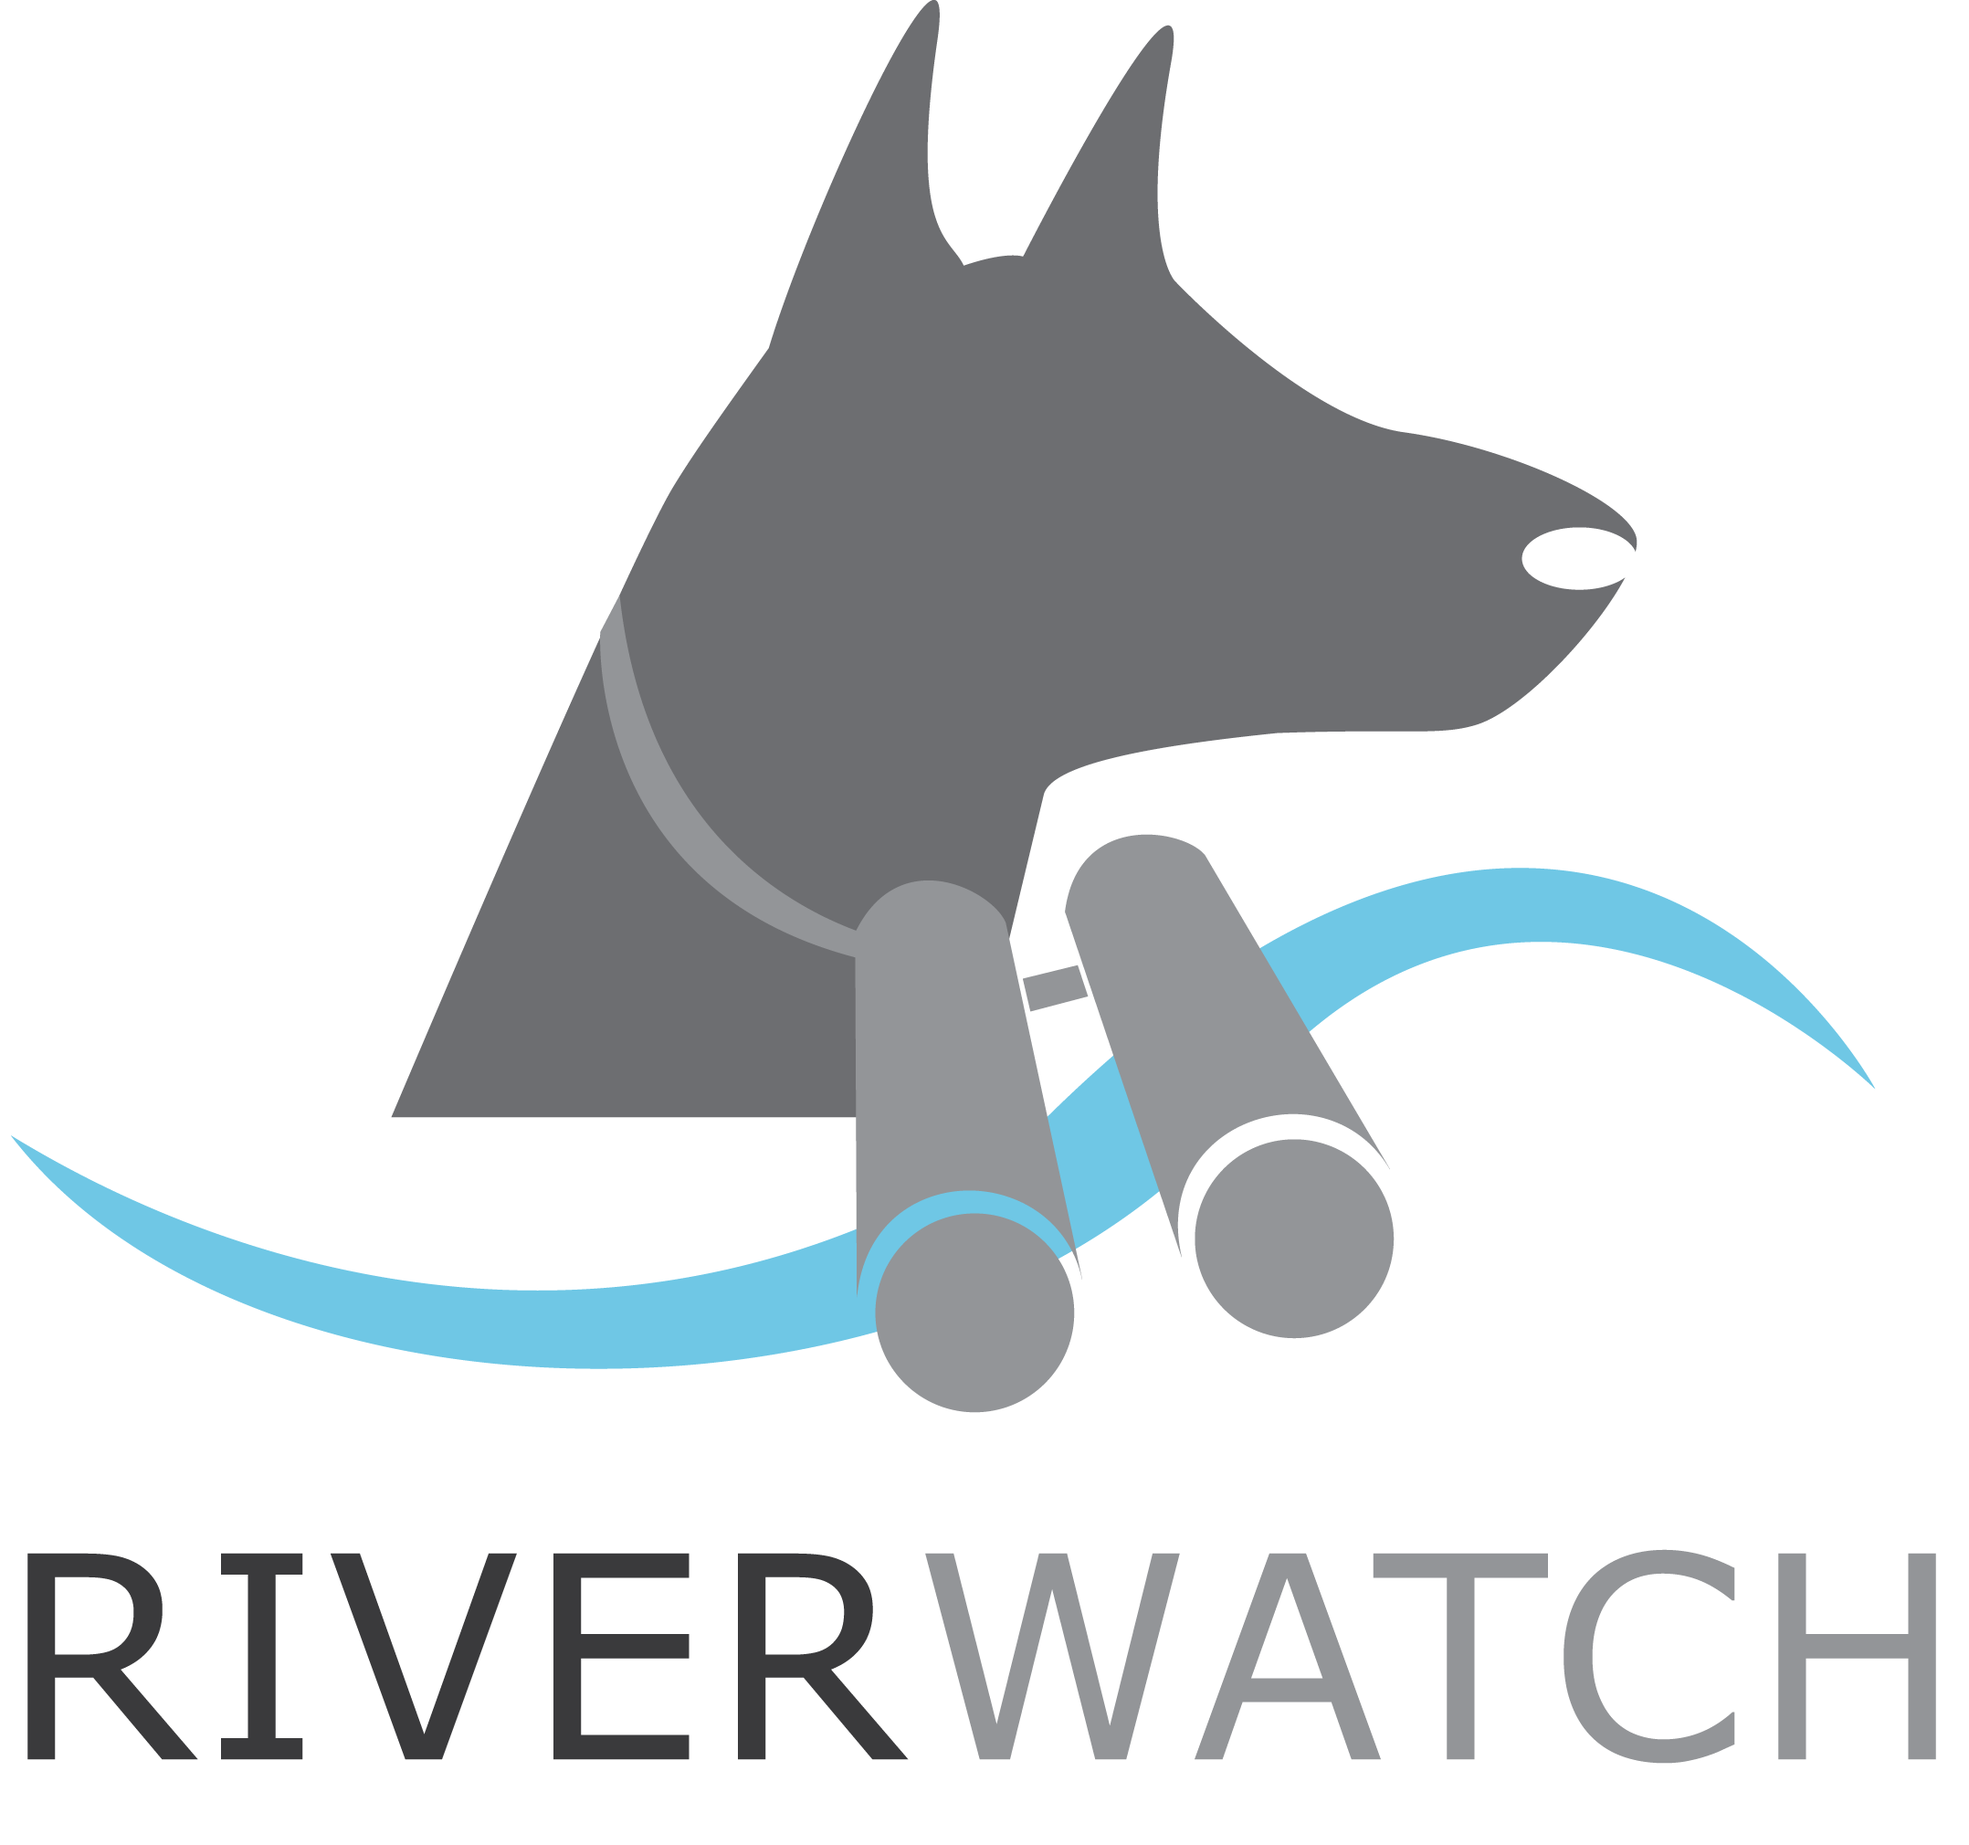
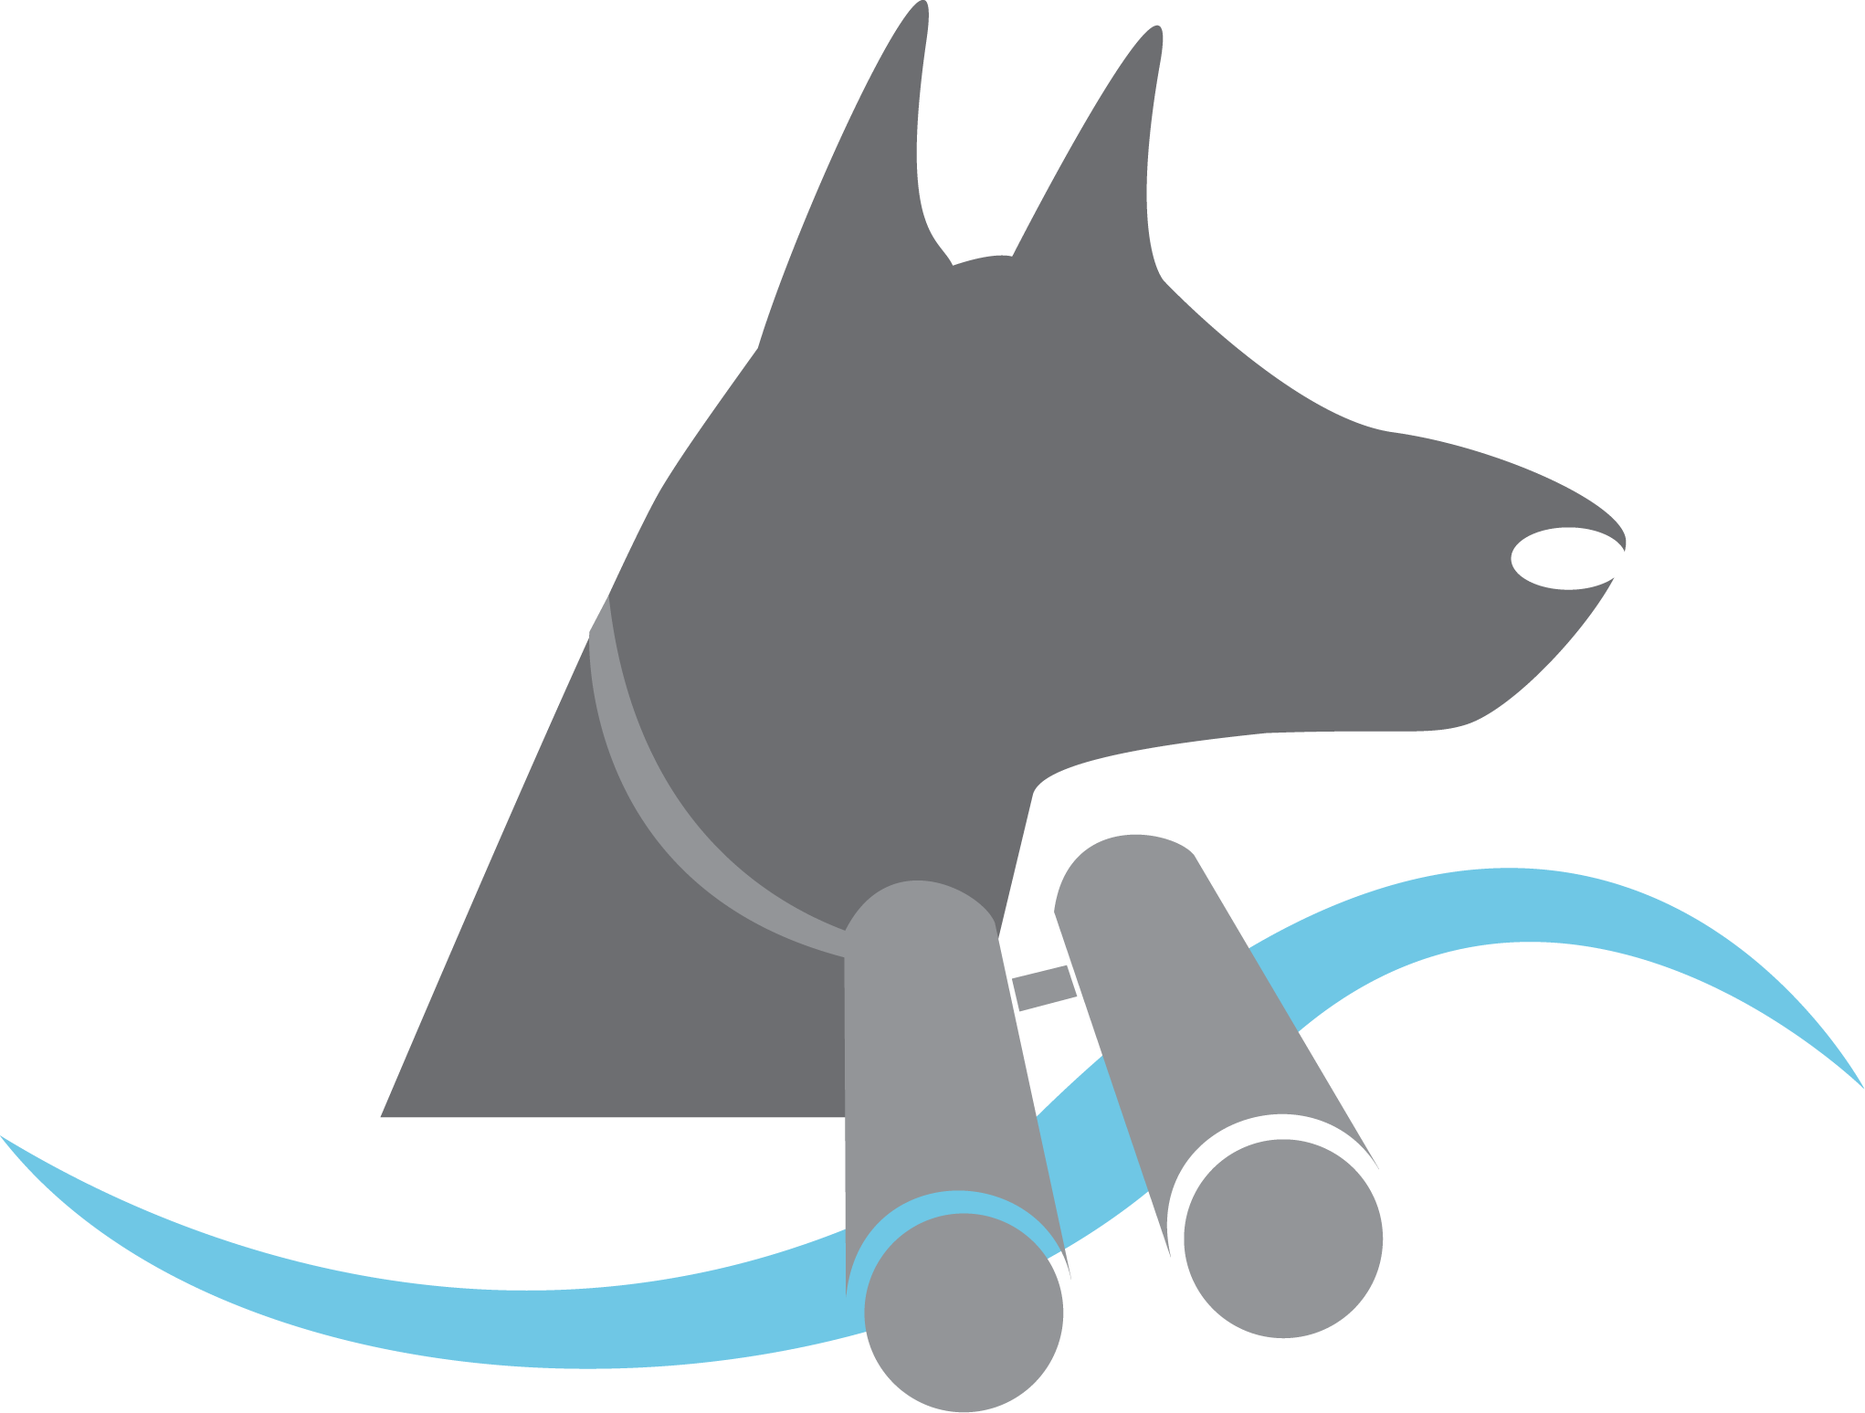
Modified the RiverWatch Image

Changed region(s): [[0.0, 0.0, 0.9873, 1.0], [0.9873, 0.7447, 1.0, 0.7757], [0.9256, 0.5585, 0.9564, 0.5895]]

diff --git a/River Watch/MainPage.xaml b/River Watch/MainPage.xaml
@@ -53,8 +53,7 @@
             <Button Name="folderButton" Margin="250,443,86,44" VerticalAlignment="Center" Style="{StaticResource roundButton}" Height="120" Click="Folder_Click" HorizontalAlignment="Center" Width="120">
                 <Image Source="/Assets/Tiles/appbar.folder.open.png" HorizontalAlignment="Left" VerticalAlignment="Center" />
             </Button>
-            <Image HorizontalAlignment="Left" Height="376" VerticalAlignment="Top" Width="430" Source="/Assets/Tiles/riverwatchicon.png" Margin="16,10,0,0"/>
-
+            <Image HorizontalAlignment="Left" Height="438" VerticalAlignment="Top" Width="430" Source="/Assets/Tiles/riverwatchicon.png" Margin="10,10,0,0" RenderTransformOrigin="0.493,0.662"/>
         </Grid>
 
         <!--Uncomment to see an alignment grid to help ensure your controls are
